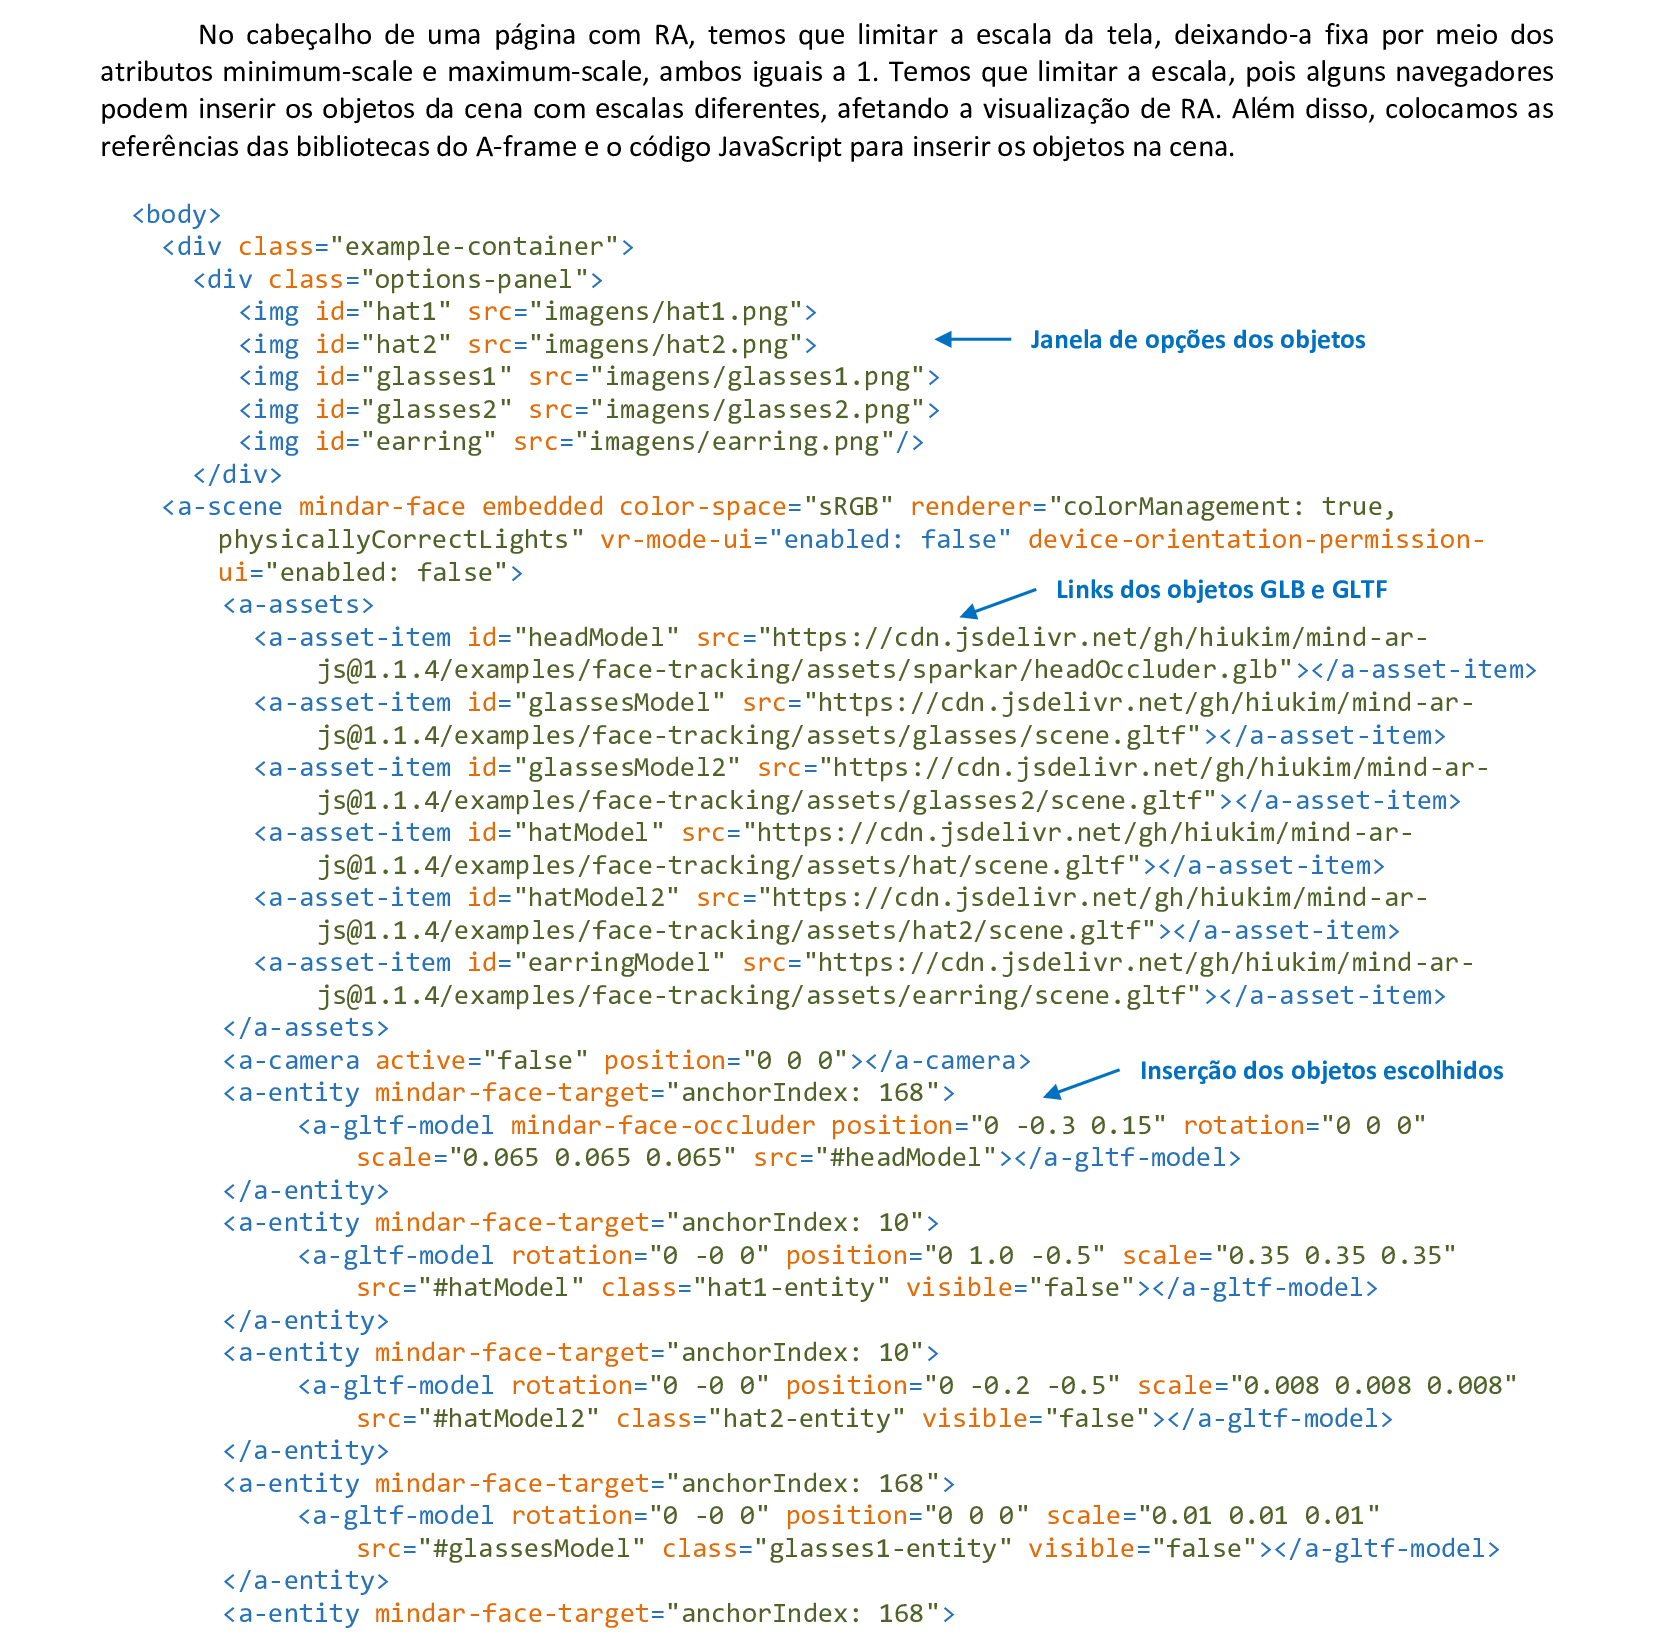
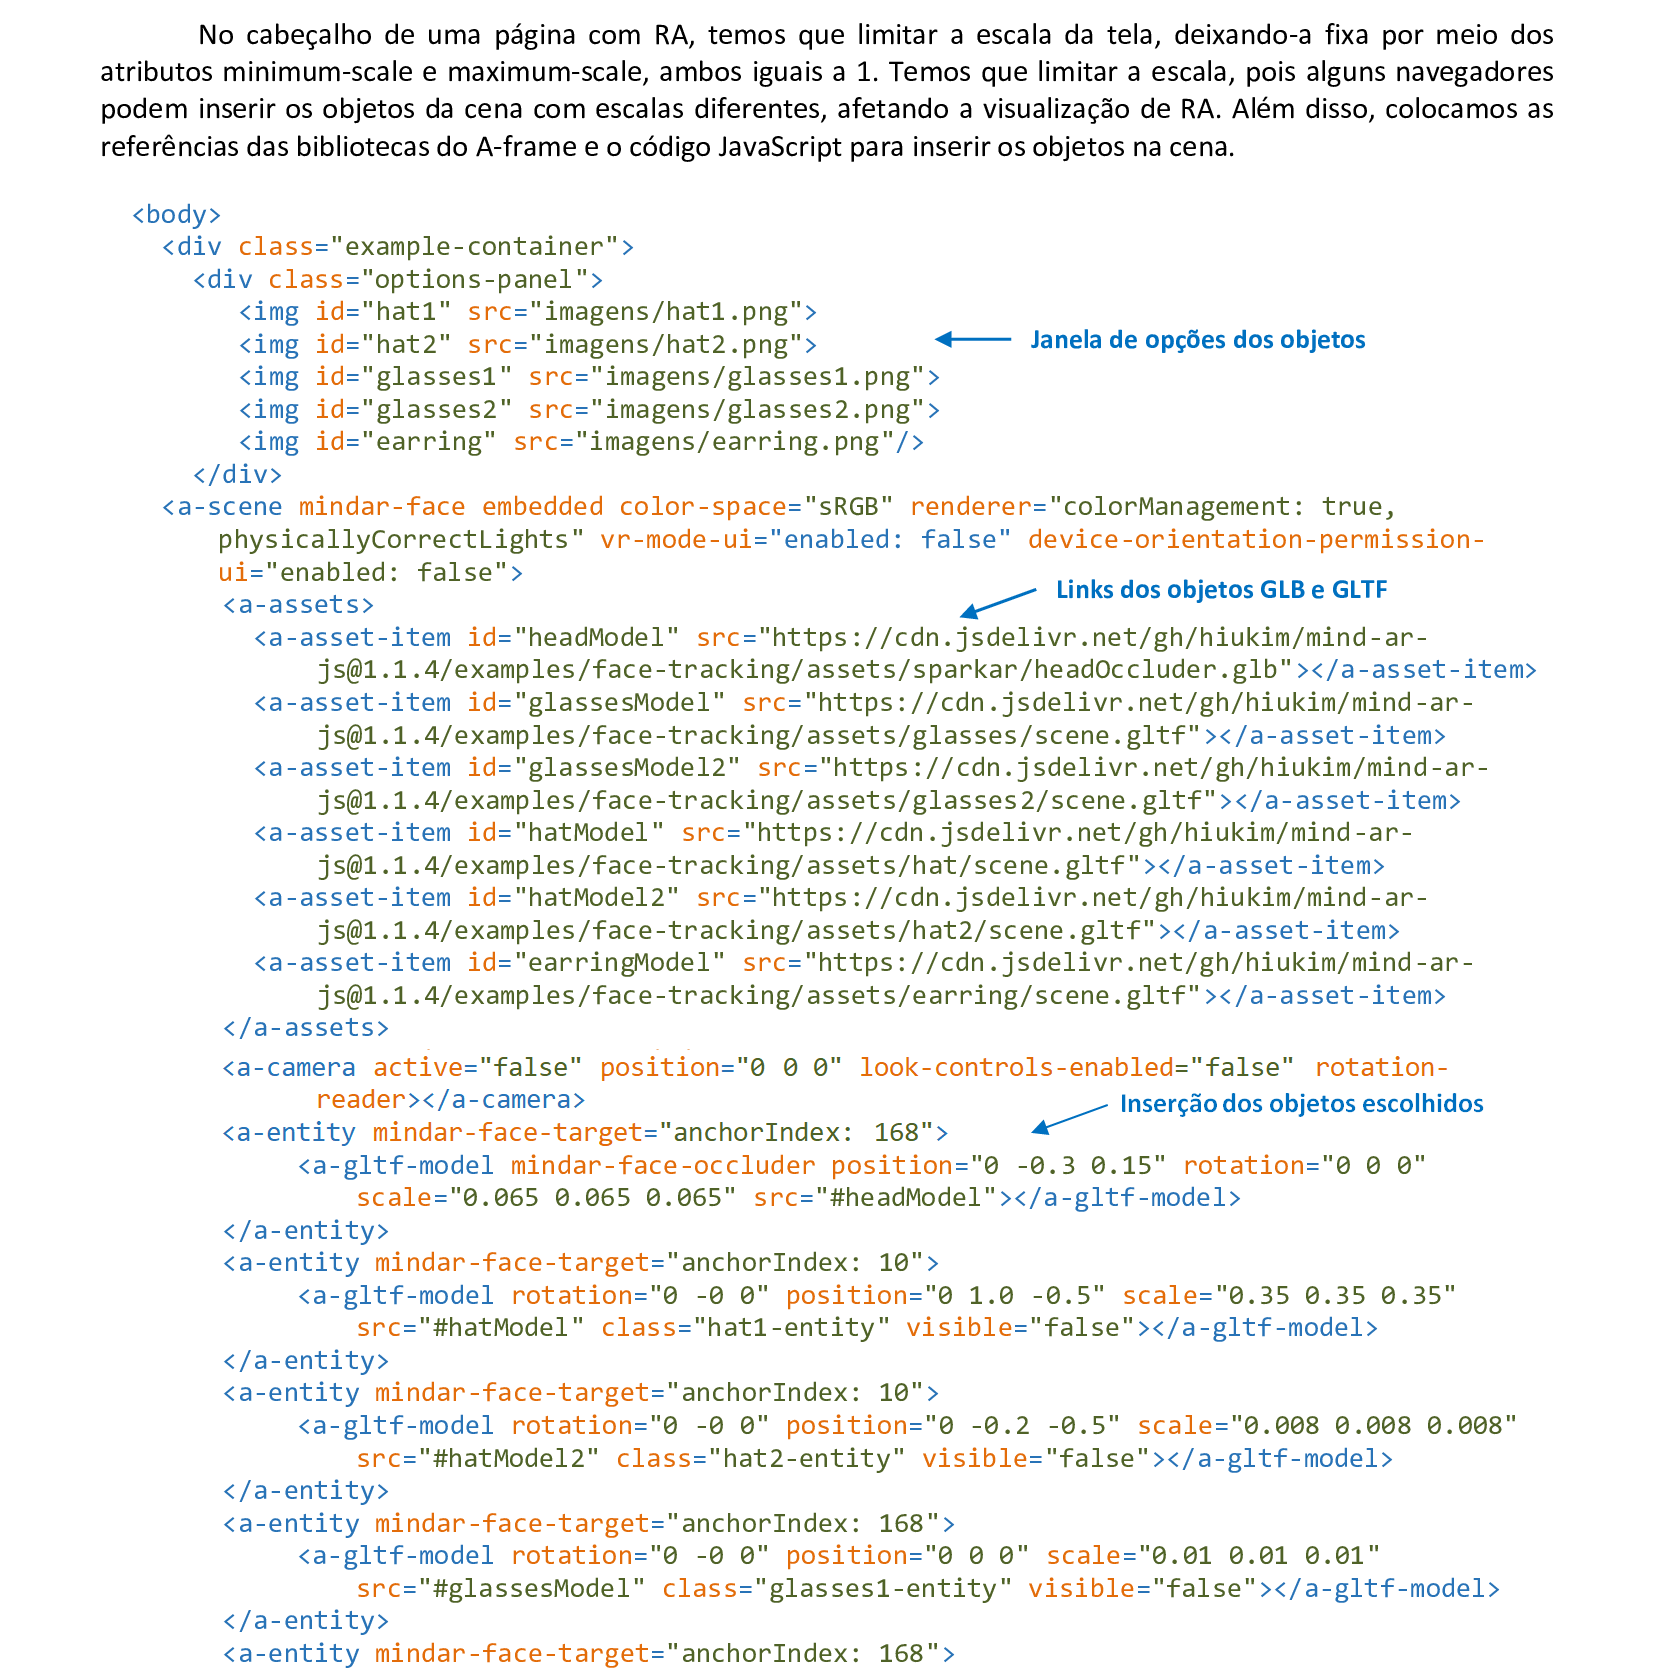
updt

diff --git a/modulo9/exemplo2.html b/modulo9/exemplo2.html
@@ -11,7 +11,7 @@
 
 <body style="margin: 0px; overflow: hidden;">
     <a-scene vr-mode-ui="enabled: false" renderer="logarithmicDepthBuffer: true;" embedded arjs='sourceType: webcam; 
-      debugUIEnabled: false;'>
+      debugUIEnabled: false; sourceWidth:1280; sourceHeight:960; displayWidth: 1280; displayHeight: 960;'>
         <a-assets>
             <a-asset-item id="modelo" src="objetos/helicoptero.glb"></a-asset-item>
             <a-asset-item id="modelo1" src="objetos/helicea.glb"></a-asset-item>

diff --git a/README.md b/README.md
@@ -4240,7 +4240,7 @@ p.show()
           &lt;a-asset-item id="hatModel2" src="https://cdn.jsdelivr.net/gh/hiukim/mind-ar-js@1.1.4/examples/face-tracking/assets/hat2/scene.gltf"&gt;&lt;/a-asset-item&gt;
           &lt;a-asset-item id="earringModel" src="https://cdn.jsdelivr.net/gh/hiukim/mind-ar-js@1.1.4/examples/face-tracking/assets/earring/scene.gltf"&gt;&lt;/a-asset-item&gt;
         &lt;/a-assets&gt;
-        &lt;a-camera active="false" position="0 0 0"&gt;&lt;/a-camera&gt;
+        <a alt="configurações da câmera">&lt;a-camera</a> active="false" position="0 0 0" look-controls-enabled="false" rotation-reader&gt;&lt;/a-camera&gt;
         <a alt="modelo de uma face, usado para o rastreamento">&lt;a-entity mindar-face-target="anchorIndex: 168"&gt;</a>
             &lt;a-gltf-model mindar-face-occluder position="0 -0.3 0.15" rotation="0 0 0" 
               scale="0.065 0.065 0.065" src="#headModel"&gt;&lt;/a-gltf-model&gt;
@@ -4287,12 +4287,9 @@ p.show()
     &lt;meta charset='utf-8'&gt;
     &lt;meta http-equiv='X-UA-Compatible' content='IE=edge'&gt;
     &lt;meta name="viewport" content="width=device-width, user-scalable=no, minimum-scale=1.0, maximum-scale=1.0"&gt;
-    <a alt="referência da biblioteca aframe com suporte">&lt;script src="https://aframe.io/releases/1.2.0/aframe.min.js"&gt;&lt;/script&gt;</a>
-    <a alt="biblioteca de RA baseada em localização">&lt;script src="https://unpkg.com/aframe-look-at-component@0.8.0/dist/aframe-look-at-component.min.js"&gt;&lt;/script&gt;</a>
-    <a alt="biblioteca da criação da cena em RA">&lt;script src="https://jeromeetienne.github.io/AR.js/aframe/build/aframe-ar.js"&gt;&lt;/script&gt;</a>
-    &lt;script&gt;
-        THREEx.ArToolkitContext.baseURL = 'https://raw.githack.com/jeromeetienne/ar.js/master/three.js/'
-    &lt;/script&gt;
+    <a alt="referência da biblioteca aframe">&lt;script src="https://aframe.io/releases/1.3.0/aframe.min.js"&gt;&lt;/script&gt;</a>
+    <a alt="biblioteca de RA baseada em localização">&lt;script src="https://unpkg.com/aframe-look-at-component@1.0.0/dist/aframe-look-at-component.min.js"&gt;&lt;/script&gt;</a>
+    <a alt="biblioteca da criação da cena em RA">&lt;script src="https://raw.githack.com/AR-js-org/AR.js/master/aframe/build/aframe-ar-nft.js"&gt;&lt;/script&gt;</a>
 &lt;/head&gt;
 
 &lt;body style="margin: 0px; overflow: hidden;"&gt;
